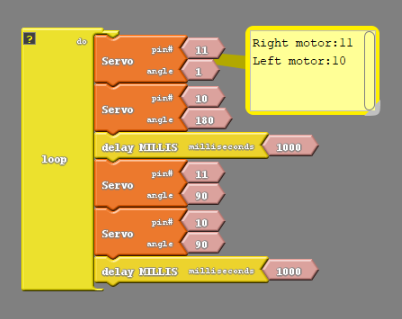
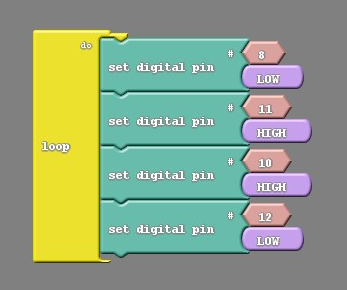
added dc motor lesson

diff --git a/lessons/_rover_lessons_home/06/index.md b/lessons/_rover_lessons_home/06/index.md
@@ -7,9 +7,14 @@ suggested_time: 60-75 minutes
 videos:
 ---
 
+### What You'll Need
 
+Before beginning, make sure you have these items
 
-
+- 1 x Arduino Uno Compatible Board
+- 1 x DC Driver Board
+- 1 x Mini Screwdriver
+- 6 x Pin-to-Socket Arduino Wires
 
 ### Overview
 
@@ -17,102 +22,156 @@ In this section we will explore how DC motors are controlled.  Topics covered in
 
 - How to wire your servo motors to your Arduino Uno Compatible board
 - How to program your DC motors to to turn on, stop and spin both directions
-- How to change the speed of your DC motors
 
-### DC Motor Control
+### DC Motors
 
+DC motors are commonly used in car projects because they are able to spin continuously in either direction (like a wheel).  They are pretty easy to turn on and off.  If you give it power, it turns on.  If you disconnect the power, it turns off.  The trickier part is changing the direction that the motor spins, changing its speed and giving the motor enough power so that it can actually spin.  Because of this, we use another piece of hardware that makes working with DC motors a little easier - the DC driver board.
 
+Find your DC motors (you should have two of them).  Notice that each motor has two wires coming out of it.  These wires will be used to connect your motors to the DC driver board.
+
+### DC Driver Board
+
+<img src="fig-6_0.jpg" alt="fig-6_0" style="zoom:15%;" class="image center" />
+
+The DC driver board can be thought of as the muscle that gives the DC motor the power to move.  Our Uno board, which is the brain, will send signals to the DC driver to move and the DC driver converts the signals into actual movement in the motor.
 
 ### Wire Your DC Motors
 
-### Coding Your Motors To Move
+#### Wiring Diagram
 
-#### Move Forward
+The wiring diagram below shows the connections that we need to make between our Uno and our driver board.
 
-The code below should move your car forward.  
+<img src="fig-6_1.png" alt="fig-6_1" style="zoom:60%;" class="image center" />
 
-![fig 6.6](fig-6_6.png){:.image .block-based}
+#### Wire DC Motors
 
-```c
-#include <Servo.h>
+Let's go ahead and wire your DC Motors to your DC driver!
 
-Servo servo_pin_11;
-Servo servo_pin_10;
+To begin, let's start with the green connectors on the driver board. Looking straight down onto them, you can see four screws (labeled #1).  From the side view you will find four contact ports where you can connect wires (labeled #2).  
 
-void setup()
-{
-  servo_pin_11.attach(11);
-  servo_pin_10.attach(10);
-}
+<img src="fig-6_2.png" alt="fig-6_2" style="zoom:30%;" class="image center" />
 
-void loop()
-{
-  servo_pin_11.write( 1 );
-  servo_pin_10.write( 180 );
-}
-```
-{:.text-based}
+The screws are used loosened to allow wires to be pushed in and out, and tightened to fasten wires in place.  
 
-#### Stop Your Motors
-The code below will move both motors for 1 second, stop and then loop forever.
+If the screws aren't loosened yet, go ahead and loosen all four screws so that we can stick wires into the contact ports.  Be careful not to loosen too much as you don't want to screw to come all the way out and fall out!
 
-![fig 6.8](fig-6_8.png){:.image .block-based}
+Now wire the DC motors!
 
-```c
-#include <Servo.h>
+Make sure that the pair of wires from DC Motor 1 is connected to the two ports labeled Motor A and the pair of wires from DC Motor 2 is connected to the two ports labeled Motor B.
 
-Servo servo_pin_11;
-Servo servo_pin_10;
+#### Wire Control Signals
 
-void setup()
-{
-  servo_pin_11.attach(11);
-  servo_pin_10.attach(10);
-}
+Now we need to connect the motor drive board to the Uno board.  
 
-void loop()
-{
-  servo_pin_11.write( 1 );
-  servo_pin_10.write( 180 );
-  delay( 1000 );
-  servo_pin_11.write( 90 );
-  servo_pin_10.write( 90 );
-  delay( 1000 );
-}
-```
-{:.text-based}
+Find the 6 pin headers on the other side of the driver board.  They are labeled from left to right: B-IA, B-IB, GND, VCC, A-IA, A-IB. 
 
-Because there is a button attached to our robot we can create a far more convenient code. We can use the button to trigger movement of the car. In other words have the car be stopped until the button is pressed;
+GND and VCC will provide the power to the driver board.  Connect VCC to 5V on the Uno and GND to GND on the Uno.
 
-![fig 6.10](fig-6_10.png){:.image .block-based}
+The other four pins can be separated into pairs: (A-IA, A-IB) and (B-IA, B-IB). Each of these pairs of pins are used to control one motor.  (A-IA, A-IB) control Motor A and (B-IA, B-IB) control Motor B.
+
+Go ahead and make the follow connections.
+
+| DC Driver Board | Arduino Uno Compatible Board |
+| :-------------: | :--------------------------: |
+|      A-IA       |            Pin 8             |
+|      A-IB       |            Pin 11            |
+|      B-IA       |            Pin 10            |
+|      B-IB       |            Pin 12            |
+
+### DC Driver Board Control
+
+Before we begin to program, let's first examine how the Uno Board will use pins 8, 11, 10 and 12 to control the motors.  The Uno will be able to change the status of these pins between LOW and HIGH, which basically turns the power on and off on those pins.  One way to think about it is that you have 4 light switches that you can turn on and off.  If you have them all on, all off, one on and three off, etc.  All these different combinations will cause your DC motors to turn on, turn off, move backward, move forward, etc.
+
+The table below describes what happens to Motor A as you control A-IA (Pin 8) and A-IB (Pin 11).  
+
+<p align=center>Motor A Control Table</p>
+
+| A-IA Signal (Pin 8) | A-IB Signal (Pin 11) | DC Motor Movement                |
+| :-----------------: | :------------------: | -------------------------------- |
+|         Low         |         Low          | Stop Slowly (Deceleration Stop)  |
+|         Low         |         High         | Turn One Way                     |
+|        High         |         Low          | Turn The Other Way               |
+|        High         |         High         | Stop Right Away (Emergency Stop) |
+
+A few notes:
+
+- If one signal is low and the other signal high, the motor moves.  Will the motor spin forwards or backwards (clockwise or counter-clockwise)?  This will actually be determined by how you wired the DC motor to Motor A.  The key thing to note here is that if you flip the Low/High status between the two control signals, the motor will spin the opposite direction.  This will be useful to you when you are trying to figure out how to make your car go backwards and forwards.
+- If both signals are high, the motor stops right away.  This is called an **emergency stop**.  You would want to do this if you're about to crash and you want to stop immediately.  The downside of this type of stop is that you cause stress to your car.  Imagine you're in a car and you press on the brake fully all of a sudden.  Your body feel some stress!  Your robot will feel this same kind of stress and it can wear down over time.
+- If both signals are low, the motor stops slowly.  This is called a **deceleration stop**.  It is a lot smoother and is the preferred way to stop your motor.  Unlike the emergency stop, it provides less stress to your robot.
+
+See below for a control table for Motor B.  Notice that everything is the same except we're looking at B-IB and B-IB signals.
+
+<p align=center>Motor B Control Table</p>
+
+| B-IA Signal (Pin 10) | B-IB Signal (Pin 12) | DC Motor Movement                |
+| :------------------: | :------------------: | -------------------------------- |
+|         Low          |         Low          | Stop Slowly (Deceleration Stop)  |
+|         Low          |         High         | Turn One Way                     |
+|         High         |         Low          | Turn The Other Way               |
+|         High         |         High         | Stop Right Away (Emergency Stop) |
 
 
-```c
-#include <Servo.h>
 
-Servo servo_pin_11;
-Servo servo_pin_10;
+### Move A Single Motor Both Directions
 
-void setup()
-{
-  servo_pin_11.attach(11);
-  servo_pin_10.attach(10);
-  While (digitalRead(2)==HIGH){
-    servo_pin_11.write(90);
-    servo_pin_10.write(90);
-  }
-  delay(500);
-}
+The code below moves motor A in one direction.  Try uploading this code to your Uno board and see if the motor starts spinning.
 
-void loop()
-{
-  servo_pin_11.write( 1 );
-  servo_pin_10.write( 180 );
-}
-```
-{:.text-based}
+<img src="fig-6_4.png" alt="fig-6_4" style="zoom:90%;" class="image center" />
 
-### Speed Control
+This code moves the same motor A in the opposite direction.  Notice we just change the high/low for both pins.  Try uploading this code.  Your motor should spin in the opposite direction
 
-You can change the speed of your motor by using different angle values.  See the table below.  This will come in handy later one when you are trying fine tune your wheel movements.
+<img src="fig-6_5.png" alt="fig-6_5" style="zoom:90%;" class="image center" />
 
+Now let's stop the motor.  Following the chart from the previous section, we just need to set both signals to low or both to high.  Try both to make sure that both emergency stop and deceleration stop do what they are supposed to do.
+
+<img src="fig-6_6.png" alt="fig-6_6" style="zoom:90%;" class="image center" />
+
+<img src="fig-6_7.png" alt="fig-6_7" style="zoom:90%;" class="image center" />
+
+
+
+#### Challenge #1: Motor B
+
+Now try to get Motor B to move both directions and stop by uploading similar code.  
+
+Hint: Change pin 8 to pin 10 and change pin 11 to pin 12.
+
+### Move Both Motors
+
+Now that we know how to move a single motor in both directions, let's see if we can move both motors at the same time.  The code below has four blocks because need two blocks to control each motors.  Try uploading the code.
+
+<img src="fig-6_8.png" alt="fig-6_8" style="zoom:90%;" class="image center" />
+
+Do both motors spin in the same direction?  Or are they opposite?  Try the challenges below.
+
+#### Challenge #1: Same Direction
+
+Program the motors spin in the same direction.  
+
+Hint: To change the direction of a motor, just flip the high/low on the signal pair.  
+
+Another Hint:  8 and 11 is the signal pair for motor A.  10 and 12 is the signal pair for motor B.
+
+#### Challenge #2: Opposite Direction
+
+Using what you have learned, program the motors spin in opposite directions.
+
+### Move And Stop
+
+Now that we know how to move the motors back and forth, let's create a simple program where the motor moves both motors for 1 second, stops both motors for 1 second and the continues in a forever loop.
+
+<img src="fig-6_9.png" alt="fig-6_9" style="zoom:90%;" class="image center" />
+
+A few notes:
+
+- Blocks 1-4 command both motors to spin
+- Block 5 (delay MILLIS) tells the code to wait there for 1000 milliseconds (same as 1 second) before executing any new commands
+- The 6-9 command both motors to decelerate to a stop
+- Block 10 (delay MILLIS) tells the code to wait there for 1000 milliseconds (same as 1 second) before executing any new commands
+- After block 10 finishes executing, the code loops to block 1 and keeps going
+
+#### Practice #1: Reduce The Delay
+
+Modify the code so that it only waits 1/2 a second after stopping and going.  See the answer below.  Note that 500 milliseconds is 1 second.
+
+<img src="fig-6_10.png" alt="fig-6_10" style="zoom:90%;" class="image center" />
